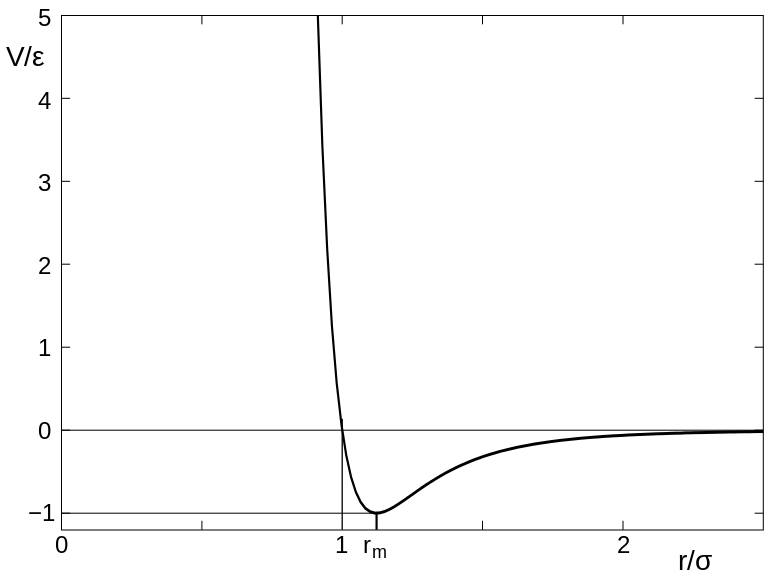
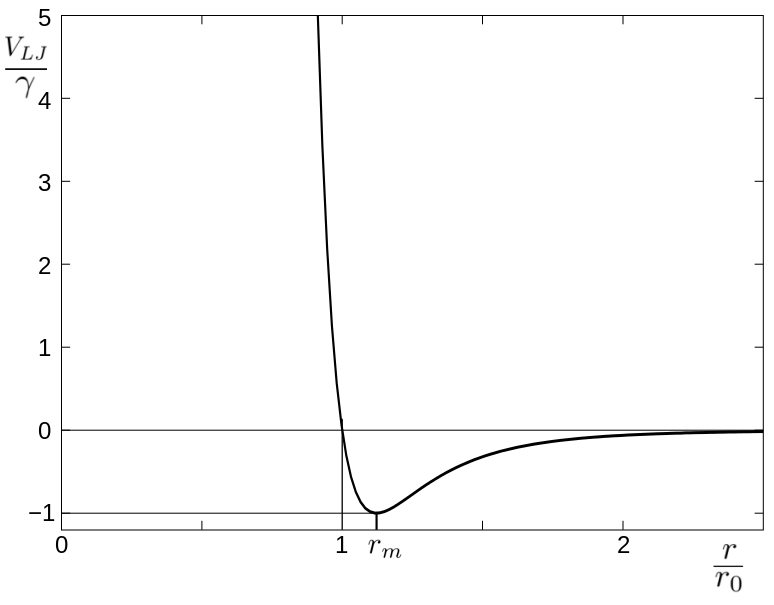
Capitulo 2 completo (en teoría). Falta revisar en lectura completa de Tesis

diff --git a/Chapters/Capitulo2.tex b/Chapters/Capitulo2.tex
@@ -1,8 +1,8 @@
 % Chapter Template
 
-\chapter{ASPECTOS TEORICOS BASICOS} % Main chapter title
+\chapter{SIMULACIONES ATOMISTICAS} % Main chapter title
 
-\label{C2} % Change X to a consecutive number; for referencing this chapter elsewhere, use \ref{ChapterX}
+\label{C2} % Change X to a consecutive number; for referencing this chapter elsewhere, use {ChapterX}
 
 \lhead{Capítulo 2. \emph{ASPECTOS TEORICOS BASICOS}} % Change X to a consecutive number; this is for the header on each page - perhaps a shortened title
 
@@ -15,15 +15,17 @@
 
 Las simulaciones en computadora han abierto la posibilidad a estudiar sistemas, y verificar modelos bajo condiciones que son imposibles (o muy difíciles) de conseguir experimentalmente. También han permitido incrementar la complejidad de los modelos usados y realizar comparaciones directas con fenómenos naturales, una vez que el modelo ha sido validado.
 
-Con la llegada de computadoras más potentes, aparece una nueva opción a considerar entre teoría y experimentos: los experimentos simulados. El modelo sobre el cual se realiza esta simulación sigue siendo teórico, pero todos los cálculos son llevados a cabo por la computadora. Es muy importante por supuesto, definir las condiciones de simulación de tal manera que represente una situación físicamente posible, y no obtener resultados absurdos.
+Con la llegada de computadoras más potentes, aparece una nueva opción a considerar entre teoría y experimentos: los experimentos numéricamente simulados. El modelo sobre el cual se realiza esta simulación sigue siendo teórico, pero todos los cálculos son llevados a cabo por la computadora. Es muy importante por supuesto, definir las condiciones de simulación de tal manera que represente una situación físicamente posible, y no obtener resultados absurdos. Para ello, los modelos teóricos y numéricos son previamente calibrados mediante los resultados obtenidos de experimentos.
 
-Tanto el modelo como las condiciones de simulación y los elementos que componen el experimento simulado se encuentran en el marco de algún paquete de software que mediante algoritmos específicos resuelven el problema y nos entregan ciertos resultados. En este caso particular se hace uso de simulaciones de Dinámica Molecular (apropiadas para estudiar fenómenos en escala nano) mediante el paquete LAMMPS \citep{plimpton95}, que es de código abierto y gratuito.
+Tanto el modelo como las condiciones de simulación y los elementos que componen el experimento simulado se encuentran en el marco de algún paquete de software que mediante algoritmos específicos resuelven el problema y nos entregan ciertos resultados.
+
+En este trabajo en particular se hace uso de simulaciones de Dinámica Molecular (apropiadas para estudiar fenómenos en escala nano) mediante el paquete LAMMPS \citep{plimpton95}, que es de código abierto y gratuito.
 
 %----------------------------------------------------------------------------------------
 %	SECTION 2
 %----------------------------------------------------------------------------------------
 
-\section{Introducción a MD}
+\section{Introducción a Dinámica Molecular}
 \label{S2_2}
 
 Las simulaciones de dinámica molecular (MD) son usadas frecuentemente para estudiar propiedades a escala nano \citep{allen87}. Las simulaciones de MD son una técnica muy poderosa que permite resolver, usando mecánica clásica, problemas con muchos cuerpos, dada una interacción entre átomos. Una ventaja de MD es que la deformación, el esfuerzo, la temperatura, la velocidad, etc. son todas conocidas en detalle \citep{allen87}. Con esta información un gran número de fenómenos pueden estudiarse, como cambios de fase, transferencia de calor, creación y movimiento de dislocaciones, defectos, etc.. MD es una herramienta muy versátil para el estudio de las propiedades de materiales, y hasta ha sido utilizada para predecir el comportamiento mecánico de materiales previamente a los experimentos, como en el caso de maclas de aluminio \citep{chen03}. Las simulaciones de MD reproducen el movimiento atómico y por lo tanto emplean pasos de tiempo de 1 fs \citep{allen87}.
@@ -34,11 +36,17 @@ Las simulaciones de MD integran en el tiempo las ecuaciones de movimiento de New
 \mathbf{F_{i}} = m_{i}\mathbf{a_{i}}
 \end{equation}
 
-donde $m_{i}$ es la masa de cada átomo y $\mathbf{a_{i}}$ es su aceleración, dada por $\frac{d^{2}\mathbf{r_{i}}}{dt^{2}}$. Esto quiere decir que el resultado final de una simulación de MD es uno sólo y está determinado por las posiciones y velocidades iniciales (los errores de redondeo propios del cálculo numérico hacen que las soluciones diverjan de todas maneras). Vale la pena aclarar que si bien en sistemas pequeños, dos condiciones iniciales diferentes pueden llevar a soluciones muy distintas. En sistemas con un gran número de átomos las soluciones deberían ser estadísticamente comparables.
+donde $m_{i}$ es la masa de cada átomo y $\mathbf{a_{i}}$ es su aceleración, dada por $\frac{d^{2}\mathbf{r_{i}}}{dt^{2}}$. De lo anterior se puede concluir lo siguiente:
+
+\begin{itemize}
+ \item El resultado final de dos simulaciones de MD para iguales condiciones iniciales producen en teoría los mismos resultados, es decir, son determinísticas (los errores de redondeo propios del cálculo numérico hacen que las soluciones diverjan de todas maneras).
+ \item Si el número de átomos es pequeño, dos condiciones iniciales ligeramente distintas pueden llevar a soluciones muy diferentes.
+ \item En sistemas con un gran número de átomos las soluciones para distintas condiciones iniciales deberían ser estadísticamente similares (los estados termodinámicos son comparables).
+\end{itemize}
 
 El estado termodinámico del sistema está definido por ciertos parámetros como la temperatura, la presión, el número de partículas, etc. El estado microscópico del sistema queda definido por las posiciones $p_{i}$ y los momentos atómicos $q_{i}$ y lo llamamos \textbf{espacio de fase}. Las posiciones y los momentos son considerados coordenadas de un espacio $6N$-dimensional ($\Omega$), en el que un punto cualquiera se denomina $P$ y describe el estado del sistema. 
 
-Todas las configuraciones posibles que tienen diferente estado microscópico pero tienen idéntico estado macroscópico o termodinámico se denomina \textbf{ensamble estadístico}. En una simulación de MD, se aplican restricciones o condiciones externas, que determinan el tipo de ensamble, es decir, las sucesivos valores de velocidad y posición que obtenemos en cada paso de la simulación, son configuraciones diferentes del mismo ensamble.
+Todas las configuraciones posibles que tienen diferente estado microscópico pero tienen idéntico estado macroscópico o termodinámico se denomina \textbf{ensamble estadístico}. En una simulación de MD, se aplican restricciones o condiciones externas, que determinan el tipo de ensamble, es decir, las sucesivos valores de velocidad y posición que obtenemos en cada paso de la simulación son configuraciones diferentes del mismo ensamble.
 
 Las propiedades termodinámicas se calculan como promedios de ciertas funciones que aplican sobre la configuración del sistema (un \textbf{observable} $\mathbf{\mathcal{A}}(p_{i},q_{i})$) sobre todas las configuraciones posibles.
 
@@ -49,16 +57,16 @@ Las propiedades termodinámicas se calculan como promedios de ciertas funciones 
 Esto resulta extremadamente difícil dado el número enorme de configuraciones posibles. Otra forma de calcular el promedio de este observable, es considerar el promedio en el tiempo del mismo, es decir, considerando que los puntos $P_{i}$ de salida de la simulación forman una trayectoria $\mathbf{\Gamma}(t)$ en el espacio de fase, puede calcularse el promedio en el tiempo, como una función de $\mathbf{\Gamma}(t)$:
 
 \begin{equation}
-\langle \mathbf{\mathcal{A}} \rangle _{t} = \frac{1}{\tau} \sum_{\tau = 1}^{\tau_{obs}} \mathbf{\mathcal{A}}(\Gamma (t))
+\langle \mathbf{\mathcal{A}} \rangle _{t} = \frac{1}{\tau_{obs}} \sum_{\tau = 1}^{\tau_{obs}} \mathbf{\mathcal{A}}(\Gamma (t))
 \end{equation}
 
-donde $\tau_{obs}$ es el número de pasos de la simulación.
+donde $\tau$ representa un paso de simulación y $\tau_{obs}$ es el número total de pasos.
 
-Si bien estos dos promedios se definen de diferente manera, la \textbf{hipótesis ergódica} nos dice que los dos son iguales. Definimos un sistema \textbf{ergódico} como un sistema para el cual, sobre un conjunto $V$ de $\Omega$, el Promedio de Tiempo\footnotemark{} de una función $\mathbf{\mathcal{A}}$ a lo largo de una trayectoria $\mathbf{\Gamma}(t)$ es igual al Promedio de Fase\footnotemark{} de $\mathbf{\mathcal{A}}$ en casi todas partes\footnotemark.
+Si bien estos dos promedios se definen de diferente manera, la \textbf{hipótesis ergódica} nos dice que los dos son iguales. Definimos un sistema \textbf{ergódico} como un sistema para el cual, sobre un conjunto $V$ de $\Omega$, el Promedio de Tiempo\footnotemark[1] de una función $\mathbf{\mathcal{A}}$ a lo largo de una trayectoria $\mathbf{\Gamma}(t)$ es igual al Promedio de Fase\footnotemark[2] de $\mathbf{\mathcal{A}}$ en casi todas partes\footnotemark[3].
 
-\footnotetext{$\lim_{t\to\infty} \int_{0}^{t} \mathbf{\mathcal{A}}(P,T) dt = \bar{\mathbf{\mathcal{A}}}(P)$ se llama Promedio de Tiempo de $\mathbf{\mathcal{A}}$ a lo largo de la trayectoria que pasa por $P$}
-\footnotetext{El teorema de Birkhoff dice: Sea $V$ un subconjunto del Espacio de Fase $\Omega$ invariante bajo una trasformación $T:V\rightarrow{}V$ y que tiene un volumen generalizado finito. Sea  $\mathbf{\mathcal{A}}$ =  $\mathbf{\mathcal{A}}(P)$, una función de fase, definida para todos los puntos de $V$ e integrable sobre $V$. Entonces el límite $\lim_{t\to\infty} \int_{0}^{t} \mathbf{\mathcal{A}}(P,T) dt$ existe para casi todos los puntos de $V$}
-\footnotetext{$\frac{1}{\mu{}(V)} \int_{V} \mathbf{\mathcal{A}}(p) dV$ se llama Promedio de Fase de $\mathbf{\mathcal{A}}$ sobre $V$ y es el promedio de la función $\mathbf{\mathcal{A}}$, calculado sobre el conjunto invariante $V$}
+\footnotetext[1]{$\lim_{t\to\infty} \int_{0}^{t} \mathbf{\mathcal{A}}(P,T) dt = \bar{\mathbf{\mathcal{A}}}(P)$ se llama Promedio de Tiempo de $\mathbf{\mathcal{A}}$ a lo largo de la trayectoria que pasa por $P$}
+\footnotetext[2]{El teorema de Birkhoff dice: Sea $V$ un subconjunto del Espacio de Fase $\Omega$ invariante bajo una trasformación $T:V\rightarrow{}V$ y que tiene un volumen generalizado finito. Sea  $\mathbf{\mathcal{A}}$ =  $\mathbf{\mathcal{A}}(P)$, una función de fase, definida para todos los puntos de $V$ e integrable sobre $V$. Entonces el límite $\lim_{t\to\infty} \int_{0}^{t} \mathbf{\mathcal{A}}(P,T) dt$ existe para casi todos los puntos de $V$}
+\footnotetext[3]{$\frac{1}{\mu{}(V)} \int_{V} \mathbf{\mathcal{A}}(p) dV$ se llama Promedio de Fase de $\mathbf{\mathcal{A}}$ sobre $V$ y es el promedio de la función $\mathbf{\mathcal{A}}$, calculado sobre el conjunto invariante $V$}
 
 Esto quiere decir que podemos calcular propiedades termodinámicas a partir del Promedio de Tiempo de la propiedad de interés, sin tener que calcular el promedio del ensamble. La idea es que con tiempos suficientemente grandes, el sistema pasa por un número de estados suficientemente grande para considerar estos dos promedios iguales.
 
@@ -68,13 +76,13 @@ Esto quiere decir que podemos calcular propiedades termodinámicas a partir del 
 
 Existen diferentes ensambles, como por ejemplo:
 
-\begin{description}
-	\item[Ensamble Microcanónico $(N,V,E)$] Se fija el número de partículas, el volumen y la energía total.
-	\item[Ensamble Canónico $(N,V,T)$] Se fija el número de partículas, el volumen y la temperatura.
-	\item[Ensamble Macrocanónico $(\mu,V,T)$] Se fija el potencial químico, el volumen y la temperatura.
-	\item[Ensamble Isotérmico-Isobárico $(N,P,T)$] Se fija el número de partículas, la presión y la temperatura.
-	\item[Ensamble Isobárico-Isoentálpico $(N,P,H)$] Se fija el número de partículas, la presión y la entalpía.
-\end{description}
+\begin{itemize}
+	\item \textbf{Ensamble Microcanónico $(N,V,E)$}: Se fija el número de partículas, el volumen y la energía total.
+	\item \textbf{Ensamble Canónico $(N,V,T)$}: Se fija el número de partículas, el volumen y la temperatura.
+	\item \textbf{Ensamble Macrocanónico $(\mu,V,T)$}: Se fija el potencial químico, el volumen y la temperatura.
+	\item \textbf{Ensamble Isotérmico-Isobárico $(N,P,T)$}: Se fija el número de partículas, la presión y la temperatura.
+	\item \textbf{Ensamble Isobárico-Isoentálpico $(N,P,H)$}: Se fija el número de partículas, la presión y la entalpía.
+\end{itemize}
 
 %----------------------------------------------------------------------------------------
 %	SECTION 3
@@ -84,12 +92,12 @@ Existen diferentes ensambles, como por ejemplo:
 
 El grado de semejanza a la realidad que puede tener una simulación de MD depende (entre otros) de que las fuerzas interatómicas simuladas representen las presentes en el material real. Estas fuerzas son calculadas internamente como el gradiente de una \textit{función de energía potencial}, que depende de las posiciones atómicas (Ecuaciones \ref{C2:eq:pot},\ref{C2:eq:potfza}). Hay que aclarar que esta función puede responder bien a determinadas condiciones o composiciones, pero no a otras: hay que estar seguro de que el potencial es representativo para las condiciones de nuestra simulación.
 
-\begin{eqnarray}
-V(\mathbf{r}_{1},...,\mathbf{r}_{2})
+\begin{align}
+& V(\mathbf{r}_{1},...,\mathbf{r}_{2})
 \label{C2:eq:pot}\\
-\mathbf{F}_{i} = -\nabla_{\mathbf{r}_{i}}V(\mathbf{r}_{1},...,\mathbf{r}_{2})
+\mathbf{F}_{i} = & -\nabla_{\mathbf{r}_{i}}V(\mathbf{r}_{1},...,\mathbf{r}_{2})
 \label{C2:eq:potfza}
-\end{eqnarray}
+\end{align}
 
 Existen numerosos potenciales utilizados actualmente, algunos más generales que otros y con diferente formulación. Para sistemas complejos, los potenciales se generan en forma tabular, y no se tiene una expresión analítica del mismo, debiendo usarse el que corresponda a nuestra composición y parámetros de simulación.
 
@@ -98,21 +106,23 @@ Se nombran dos ejemplos a continuación: el potencial \textit{Lennard-Jones} y e
 \subsection{Potencial Lennard-Jones}
 \label{SS2_3_1}
 
-El potencial Lennard-Jones es un modelo simple que describe la interacción entre dos 	átomos neutrales, y su expresión matemática se ve en la Ecuación \ref{eq:LJ}. El valor $\varepsilon$ es la profundidad del pozo de energía potencial, $\sigma$ es la distancia a la cual el potencial es cero, $r_{m}$ es la distancia para la cual se obtiene el mínimo de energía potencial y $r$ es la distancia entre los átomos. A $r_{m}$, el potencial vale $-\varepsilon$.
+El potencial Lennard-Jones es un modelo simple que describe la interacción entre dos 	átomos neutrales, y su expresión matemática se ve en la Ecuación \ref{eq:LJ}. El valor $\gamma$ es la profundidad del pozo de energía potencial, $r_{0}$ es la distancia a la cual el potencial es cero, $r_{m}$ es la distancia para la cual se obtiene el mínimo de energía potencial y $r$ es la distancia entre los átomos. A $r_{m}$, el potencial vale $-\gamma$.
 
 \begin{equation}
-V_{LJ}=
-4\varepsilon \left[ \left( \frac{\sigma}{r} \right)^{12} - \left( \frac{\sigma}{r} \right)^{6} \right] = 
-\varepsilon \left[ \left( \frac{r_{m}}{r} \right)^{12} -2 \left( \frac{r_{m}}{r} \right)^{6} \right]
+V_{LJ}=4\gamma \left[ \left( \frac{r_{0}}{r} \right)^{12} - \left( \frac{r_{0}}{r} \right)^{6} \right] = 
+\gamma \left[ \left( \frac{r_{m}}{r} \right)^{12} -2 \left( \frac{r_{m}}{r} \right)^{6} \right]
 \label{eq:LJ}
 \end{equation}
 
-El término con $r^{-12}$ es un término de repulsión asociado a la repulsión de Pauli\footnotemark{} y el término con $r^{-6}$ representa la atracción de largo alcance (fuerzas de van der Waals\footnotemark). Podemos ver gráficamente el potencial en la Figura \ref{C2:fg:LJ}.
+El término con $r^{-12}$ es un término de repulsión asociado a la repulsión de Pauli\footnotemark[4] y el término con $r^{-6}$ representa la atracción de largo alcance (fuerzas de van der Waals\footnotemark[5]). Podemos ver gráficamente el potencial en la Figura \ref{C2:fg:LJ}.
+
+\footnotetext[4]{Esta contribución repulsiva proviene del recubrimiento parcial entre orbitales atómicos}
+\footnotetext[5]{Las fuerzas de van der Waals están asociadas a la atracción interatómica debida a los momentos dipolares.}
 
 \begin{figure}[htp]
 \centering
 \includegraphics[width=10cm]{Cap_2/LJ.png}
-\caption[Potencial de Lennard-Jones]{Gráfica del potencial Lennard-Jones normalizado a $\varepsilon$ y $\sigma$}
+\caption[Potencial de Lennard-Jones]{Gráfica del potencial Lennard-Jones normalizado a $\gamma$ y $r_{0}$}
 \label{C2:fg:LJ}
 \end{figure}
 
@@ -130,7 +140,7 @@ donde $r_{ij}$ es la distancia entre los átomos $i$ y $j$, $\phi_{\alpha\beta}$
 
 Al definir las funciones $\phi_{\alpha\beta}(r_{ij})$, $F_{\alpha}(\rho)$ y $\rho_{\beta} (r_{ij})$ se establece el modelo para un material en particular. En el caso de nuestras simulaciones, se tiene una aleación metálica de dos componentes, lo que implica definir siete funciones: tres funciones potenciales ($\phi_{\alpha\alpha}$, $\phi_{\alpha\beta}$, $\phi_{\beta\beta}$), dos funciones integradoras ($F_{\alpha}$, $F_{\beta}$) y dos funciones de contribución a la densidad de carga electrónica ($\rho_{\alpha}$, $\rho_{\beta}$).
 
-Las funciones se encuentran en forma tabular en un archivo de formato \textit{setfl} \citep{setfl} que es leído por lammps al indicarlo en el script de entrada. El archivo que utilizamos en nuestras simulaciones fue creado por H.W.Sheng \citep{cheng09}.
+Las funciones se encuentran en forma tabular en un archivo de formato \textit{setfl} \citep{setfl} que es leído por LAMMPS al indicarlo en el script de entrada. El archivo que utilizamos en nuestras simulaciones fue realizado por H.W.Sheng \citep{cheng09}.
 
 %----------------------------------------------------------------------------------------
 %	SECTION 4
@@ -138,72 +148,72 @@ Las funciones se encuentran en forma tabular en un archivo de formato \textit{se
 \section{Integración de las Ecuaciones de Movimiento}
 \label{S2_4}
 
-Existen diferentes algoritmos para la resolución numérica de las ecuaciones de movimiento de las partículas simuladas. En general, todos los métodos parten de la expansión en serie de Taylor de la posición y velocidad en función del tiempo. Esto, junto con la implementación computacional el algoritmo, hacen que siempre estén presentes dos errores: un error de truncamiento de la expansión en serie de Taylor, y un error de redondeo al usar un número finito de posiciones decimales.
+Existen diferentes algoritmos para la resolución numérica de las ecuaciones de movimiento de las partículas simuladas. En general, todos los métodos parten de la expansión en serie de Taylor de la posición y velocidad en función del tiempo. Esto, junto con la implementación computacional del algoritmo, hacen que siempre estén presentes dos errores: un error de truncamiento de la expansión en serie de Taylor, y un error de redondeo al usar un número finito de posiciones decimales.
 
 Si bien los dos errores son inevitables, el error de truncamiento es propio del algoritmo y no podemos cambiar \textit{su orden}, mientras que el error de redondeo varía según la manera en que se haya implementado las operaciones matemáticas a nivel informático. Para $\Delta{}t$ grandes, predomina el error de truncamiento, mientras que para $\Delta{}t$ tendiendo a cero, predominan los errores de redondeo.
 
-En este apartado describiremos los métodos \textbf{Verlet} (sección~\ref{S2_4_1}) y \textbf{Velocity Verlet} (sección~\ref{S2_4_2}). Este último es el usado por Lammps para nuestras simulaciones.
+En este apartado describiremos los métodos \textbf{Verlet} (Sección \ref{S2_4_1}) y \textbf{Velocity Verlet} (Sección \ref{S2_4_2}). Este último es el usado por LAMMPS para nuestras simulaciones.
 
 \subsection{Integración Verlet}
 \label{S2_4_1}
 
 Expandimos en primer lugar en serie de Taylor la posición para $t+\Delta{}t$ y $t-\Delta{}t$:
 
-\begin{eqnarray}
-\mathbf{r}(t+\Delta{}t) = \mathbf{r}(t)+\frac{d\mathbf{r}(t)}{dt} \Delta{}t + \frac{1}{2} \frac{d^{2}\mathbf{r}(t)}{dt^{2}} \Delta{}t^{2} + \frac{1}{3!} \frac{d^{3}\mathbf{r}(t)}{dt^{3}} \Delta{}t^{3} + \mathcal{O}(\Delta{}t^{4})
+\begin{align}
+\mathbf{r}(t+\Delta{}t) & = \mathbf{r}(t)+\frac{d\mathbf{r}(t)}{dt} \Delta{}t + \frac{1}{2} \frac{d^{2}\mathbf{r}(t)}{dt^{2}} \Delta{}t^{2} + \frac{1}{3!} \frac{d^{3}\mathbf{r}(t)}{dt^{3}} \Delta{}t^{3} + \mathcal{O}(\Delta{}t^{4})
 \label{C2:eq:VerletTaylor1} \\
-\mathbf{r}(t-\Delta{}t) = \mathbf{r}(t)-\frac{d\mathbf{r}(t)}{dt} \Delta{}t + \frac{1}{2} \frac{d^{2}\mathbf{r}(t)}{dt^{2}} \Delta{}t^{2} - \frac{1}{3!} \frac{d^{3}\mathbf{r}(t)}{dt^{3}} \Delta{}t^{3} + \mathcal{O}(\Delta{}t^{4})
+\mathbf{r}(t-\Delta{}t) & = \mathbf{r}(t)-\frac{d\mathbf{r}(t)}{dt} \Delta{}t + \frac{1}{2} \frac{d^{2}\mathbf{r}(t)}{dt^{2}} \Delta{}t^{2} - \frac{1}{3!} \frac{d^{3}\mathbf{r}(t)}{dt^{3}} \Delta{}t^{3} + \mathcal{O}(\Delta{}t^{4})
 \label{C2:eq:VerletTaylor2}
-\end{eqnarray}
+\end{align}
 
-Sumando las expresiones \ref{C2:eq:VerletTaylor1} y \ref{C2:eq:VerletTaylor2} y restando $\mathbf{r}(t-\Delta{}t)$ en ambos miembros obtenemos:
+Sumando las Ecuaciones \ref{C2:eq:VerletTaylor1} y \ref{C2:eq:VerletTaylor2} y restando $\mathbf{r}(t-\Delta{}t)$ en ambos miembros obtenemos:
 
 \begin{equation}
 \mathbf{r}(t+\Delta{}t) = 2\mathbf{r}(t) - \mathbf{r}(t-\Delta{}t) + \frac{d^{2}\mathbf{r}(t)}{dt^{2}} \Delta{}t^{2} + \mathcal{O}(t^{4})
 \label{C2:eq:VerletPos}
 \end{equation}
 
-La aceleración es calculada mediante el potencial visto anteriormente como
+La aceleración es calculada mediante el potencial visto anteriormente (Ecuación \ref{C2:eq:potfza}) como
 
 \begin{equation}
 \mathbf{a}(t) = \frac{d^{2}\mathbf{r}(t)}{dt^{2}} = -\frac{1}{m}\nabla{}V(\mathbf{r}(t))
 \end{equation}
 
-Una desventaja de este método es que las velocidades no se calculan directamente, y en general se obtienen de una aproximación por diferencias finitas según:
+Una desventaja de este método es que las velocidades no se calculan directamente, y en general se obtienen de una aproximación por diferencias finitas centrales según:
 
 \begin{equation}
 \mathbf{v}(t) = \frac{\mathbf{r}(t+\Delta{}t) - \mathbf{r}(t-\Delta{}t)}{2\Delta{}t} + \mathcal{O}(t^{2})
 \end{equation}
 
-con lo cual el error deja de ser de $\mathcal{O}(\Delta{}t^{4})$ para ser de $\mathcal{O}(\Delta{}t^{2})$. Otro problema es que para calcular las posiciones en un paso de tiempo, son necesarias las posiciones de dos pasos de tiempo atrás, por lo que el algoritmo requiere una inicialización de dos pasos. Esto último se resuelve en el método que se describe en el siguiente apartado.
+con lo cual el error deja de ser de $\mathcal{O}(\Delta{}t^{4})$ para ser de $\mathcal{O}(\Delta{}t^{2})$. Otro inconveniente es que para calcular las posiciones en un paso de tiempo, son necesarias las posiciones de dos pasos de tiempo atrás, por lo que el algoritmo requiere una inicialización de dos pasos. Esto último se resuelve en el método que se describe en el siguiente apartado.
 
 \subsection{Integración Velocity Verlet}
 \label{S2_4_2}
 
 Partimos de la expansión en serie de Taylor de la posición y la velocidad en $t+\Delta{}t$:
 
-\begin{eqnarray}
-\mathbf{r}(t+\Delta{}t) = \mathbf{r}(t)+\frac{d\mathbf{r}(t)}{dt} \Delta{}t + \frac{1}{2} \frac{d^{2}\mathbf{r}(t)}{dt^{2}} \Delta{}t^{2} + \mathcal{O}(\Delta{}t^{3})
+\begin{align}
+\mathbf{r}(t+\Delta{}t) & = \mathbf{r}(t)+\frac{d\mathbf{r}(t)}{dt} \Delta{}t + \frac{1}{2} \frac{d^{2}\mathbf{r}(t)}{dt^{2}} \Delta{}t^{2} + \mathcal{O}(\Delta{}t^{3})
 \label{C2:eq:VelVerletTaylor1} \\
-\mathbf{v}(t+\Delta{}t) = \mathbf{v}(t)+\mathbf{a}(t)\Delta{}t + \frac{1}{2}\frac{d\mathbf{a}(t)}{dt} \Delta{}t^{2} + \mathcal{O}(\Delta{}t^{3})
+\mathbf{v}(t+\Delta{}t) & = \mathbf{v}(t)+\mathbf{a}(t)\Delta{}t + \frac{1}{2}\frac{d\mathbf{a}(t)}{dt} \Delta{}t^{2} + \mathcal{O}(\Delta{}t^{3})
 \label{C2:eq:VelVerletTaylor2}
-\end{eqnarray}
+\end{align}
 
-La ecuación \ref{C2:eq:VelVerletTaylor2} puede reescribirse partiendo de la expansión en serie de Taylor de la aceleración:
+La Ecuación \ref{C2:eq:VelVerletTaylor2} puede reescribirse partiendo de la expansión en serie de Taylor de la aceleración:
 
-\begin{eqnarray}
-\mathbf{a}(t+\Delta{}t) = \mathbf{a}(t)+\frac{d\mathbf{a}(t)}{dt} \Delta{}t + \mathcal{O}(\Delta{}t^{2})
+\begin{align}
+\mathbf{a}(t+\Delta{}t) & = \mathbf{a}(t)+\frac{d\mathbf{a}(t)}{dt} \Delta{}t + \mathcal{O}(\Delta{}t^{2})
 \label{C2:eq:tayloracc1} \\
-\mathbf{a}(t)+\mathbf{a}(t+\Delta{}t) = 2\mathbf{a}(t)+\frac{d\mathbf{a}(t)}{dt} \Delta{}t + \mathcal{O}(\Delta{}t^{2})
+\mathbf{a}(t)+\mathbf{a}(t+\Delta{}t) & = 2\mathbf{a}(t)+\frac{d\mathbf{a}(t)}{dt} \Delta{}t + \mathcal{O}(\Delta{}t^{2})
 \label{C2:eq:tayloracc2} \\
-\frac{1}{2}\Delta{}t\left[\mathbf{a}(t)+\mathbf{a}(t+\Delta{}t)\right] = \mathbf{a}(t)\Delta{}t+\frac{1}{2}\frac{d\mathbf{a}(t)}{dt} \Delta{}t^{2} + \mathcal{O}(\Delta{}t^{3})
+\frac{1}{2}\Delta{}t\left[\mathbf{a}(t)+\mathbf{a}(t+\Delta{}t)\right] & = \mathbf{a}(t)\Delta{}t+\frac{1}{2}\frac{d\mathbf{a}(t)}{dt} \Delta{}t^{2} + \mathcal{O}(\Delta{}t^{3})
 \label{C2:eq:tayloracc3}
-\end{eqnarray}
+\end{align}
 
 Introduciendo la Ecuación \ref{C2:eq:tayloracc3} en la Ecuación \ref{C2:eq:VelVerletTaylor2}, obtenemos:
 
 \begin{equation}
-\mathbf{v}(t+\Delta{}t) = \frac{1}{2}\Delta{}t\left[\mathbf{a}(t)+\mathbf{a}(t+\Delta{}t)\right] + \mathcal{O}(\Delta{}t^{3})
+\mathbf{v}(t+\Delta{}t) = \mathbf{v}(t)+\frac{1}{2}\Delta{}t\left[\mathbf{a}(t)+\mathbf{a}(t+\Delta{}t)\right] + \mathcal{O}(\Delta{}t^{3})
 \label{C2:eq:VelVerletTaylor3}
 \end{equation}
 
@@ -238,12 +248,12 @@ Si bien en las simulaciones básicas de MD se utiliza el ensamble microcanónico
 
 Existen diversos métodos para mantener estos parámetros estables:
 
-\begin{description}
-	\item[Estocásticos] Se obliga a una variable del sistema a seguir cierta distribución estadística.
-	\item[De acoplamiento fuerte] Se aplica una escala a una variable del sistema para llegar al valor exacto de la propiedad derivada.
-	\item[De acoplamiento débil] Se aplica una escala a una variable del sistema para establecer la tendencia de cambio hacia el valor deseado.
-	\item[De extensión de la dinámica del sistema] Se agregan grados de libertad adicionales.
-\end{description}
+\begin{itemize}
+	\item \textbf{Estocásticos} Se obliga a una variable del sistema a seguir cierta distribución estadística.
+	\item \textbf{De acoplamiento fuerte} Se aplica una escala a una variable del sistema para llegar al valor exacto de la propiedad derivada.
+	\item \textbf{De acoplamiento débil} Se aplica una escala a una variable del sistema para establecer la tendencia de cambio hacia el valor deseado.
+	\item \textbf{De extensión de la dinámica del sistema} Se agregan grados de libertad adicionales.
+\end{itemize}
 
 Se explicará en el apartado siguiente un método usado en nuestras simulaciones para establecer la temperatura deseada mientras se simula con el ensamble NVE.
 
@@ -252,10 +262,10 @@ Se explicará en el apartado siguiente un método usado en nuestras simulaciones
 Este método (en inglés \textit{velocity rescaling}) corresponde a un acoplamiento fuerte. Se calcula un factor $\lambda$ que multiplica a todas las velocidades de traslación del sistema. No se escalan las rotaciones. La temperatura del sistema se calcula según:
 
 \begin{equation}
-\sum_{i=1}^{N}\frac{|\mathbf{p}_{i}|}{2m_{i}} = \frac{k_{b}T}{2}(3N-N_{c})
+\sum_{i=1}^{N}\frac{m_{i}|\mathbf{v}_{i}|^{2}}{2} = \frac{k_{b}T}{2}(3N-N_{c})
 \end{equation}
 
-donde $N_{c}$ son las restricciones y $3N-N_{c} = N_{gl}$ el número de grados de libertad. Entonces:
+donde $k_{b}$ es la constante de Boltzmann, $\mathbf{v}_{i}$ las velocidades atómicas lineales, $m_{i}$ las masas atómicas, $T$ la temperatura, $N_{c}$ las restricciones y $3N-N_{c} = N_{gl}$ el número de grados de libertad. Entonces:
 
 \begin{equation}
 T = \sum_{i=1}^{N}\frac{m_{i}v_{i}^{2}}{N_{gl}k_{b}}
@@ -263,8 +273,11 @@ T = \sum_{i=1}^{N}\frac{m_{i}v_{i}^{2}}{N_{gl}k_{b}}
 
 Si multiplicamos las velocidades por un factor $\lambda$ para generar un salto $\Delta{}T$, calculamos $\lambda$ como sigue:
 
-\begin{eqnarray}
-\Delta{}T = \sum_{i=1}^{N}\frac{m_{i}(\lambda{}v_{i})^{2}}{N_{gl}k_{b}} - \sum_{i=1}^{N}\frac{m_{i}v_{i}^{2}}{N_{gl}k_{b}}\\
-\Delta{}T = (\lambda{}^{2}-1)T(t)\\
-\lambda{} = \sqrt{\frac{T_{0}}{T(t)}}
-\end{eqnarray} 
+\begin{align}
+\Delta{}T &= \sum_{i=1}^{N}\frac{m_{i}(\lambda{}v_{i})^{2}}{N_{gl}k_{b}} - \sum_{i=1}^{N}\frac{m_{i}v_{i}^{2}}{N_{gl}k_{b}}\\
+T_{\tau} - T_{\tau{}-1} &= (\lambda{}^{2}-1)T_{\tau{}-1}\\
+\frac{T_{\tau}}{T_{\tau{}-1}} - 1 &= \lambda{}^{2}-1 \\
+\lambda{} &= \sqrt{\frac{T_{\tau{}}}{T_{\tau{}-1}}}
+\end{align}
+
+donde $T_{\tau{}-1}$ es la temperatura del paso de tiempo $\tau{}-1$ ya calculado y $T_{\tau}$ es la nueva temperatura.
